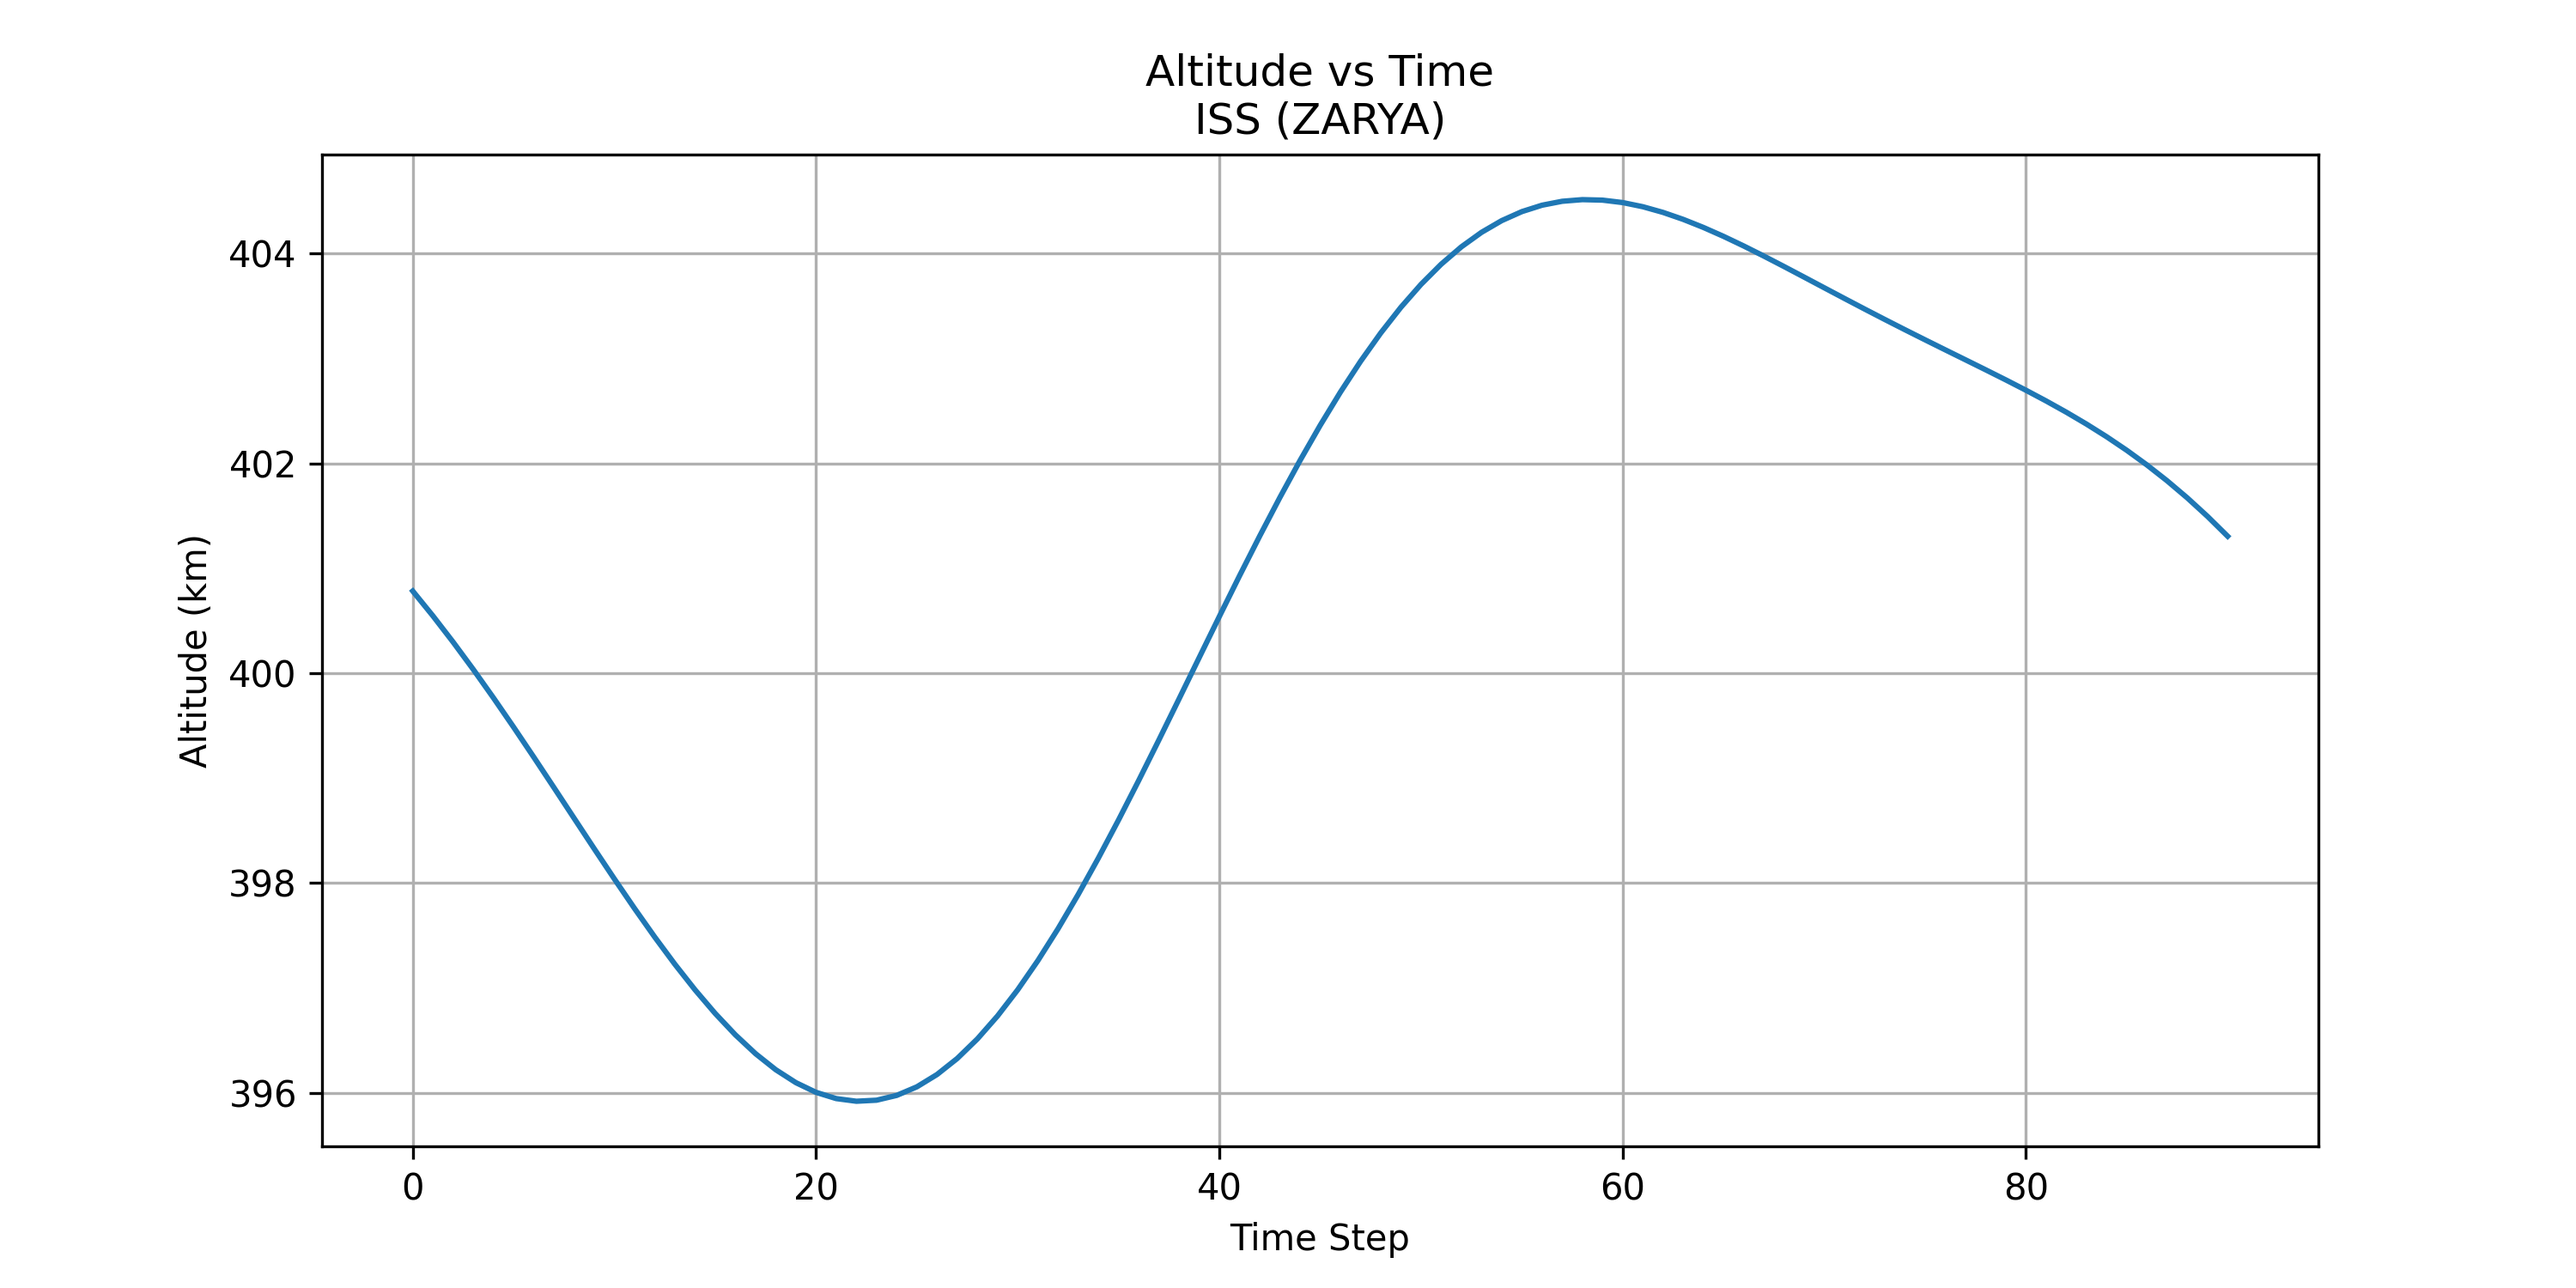
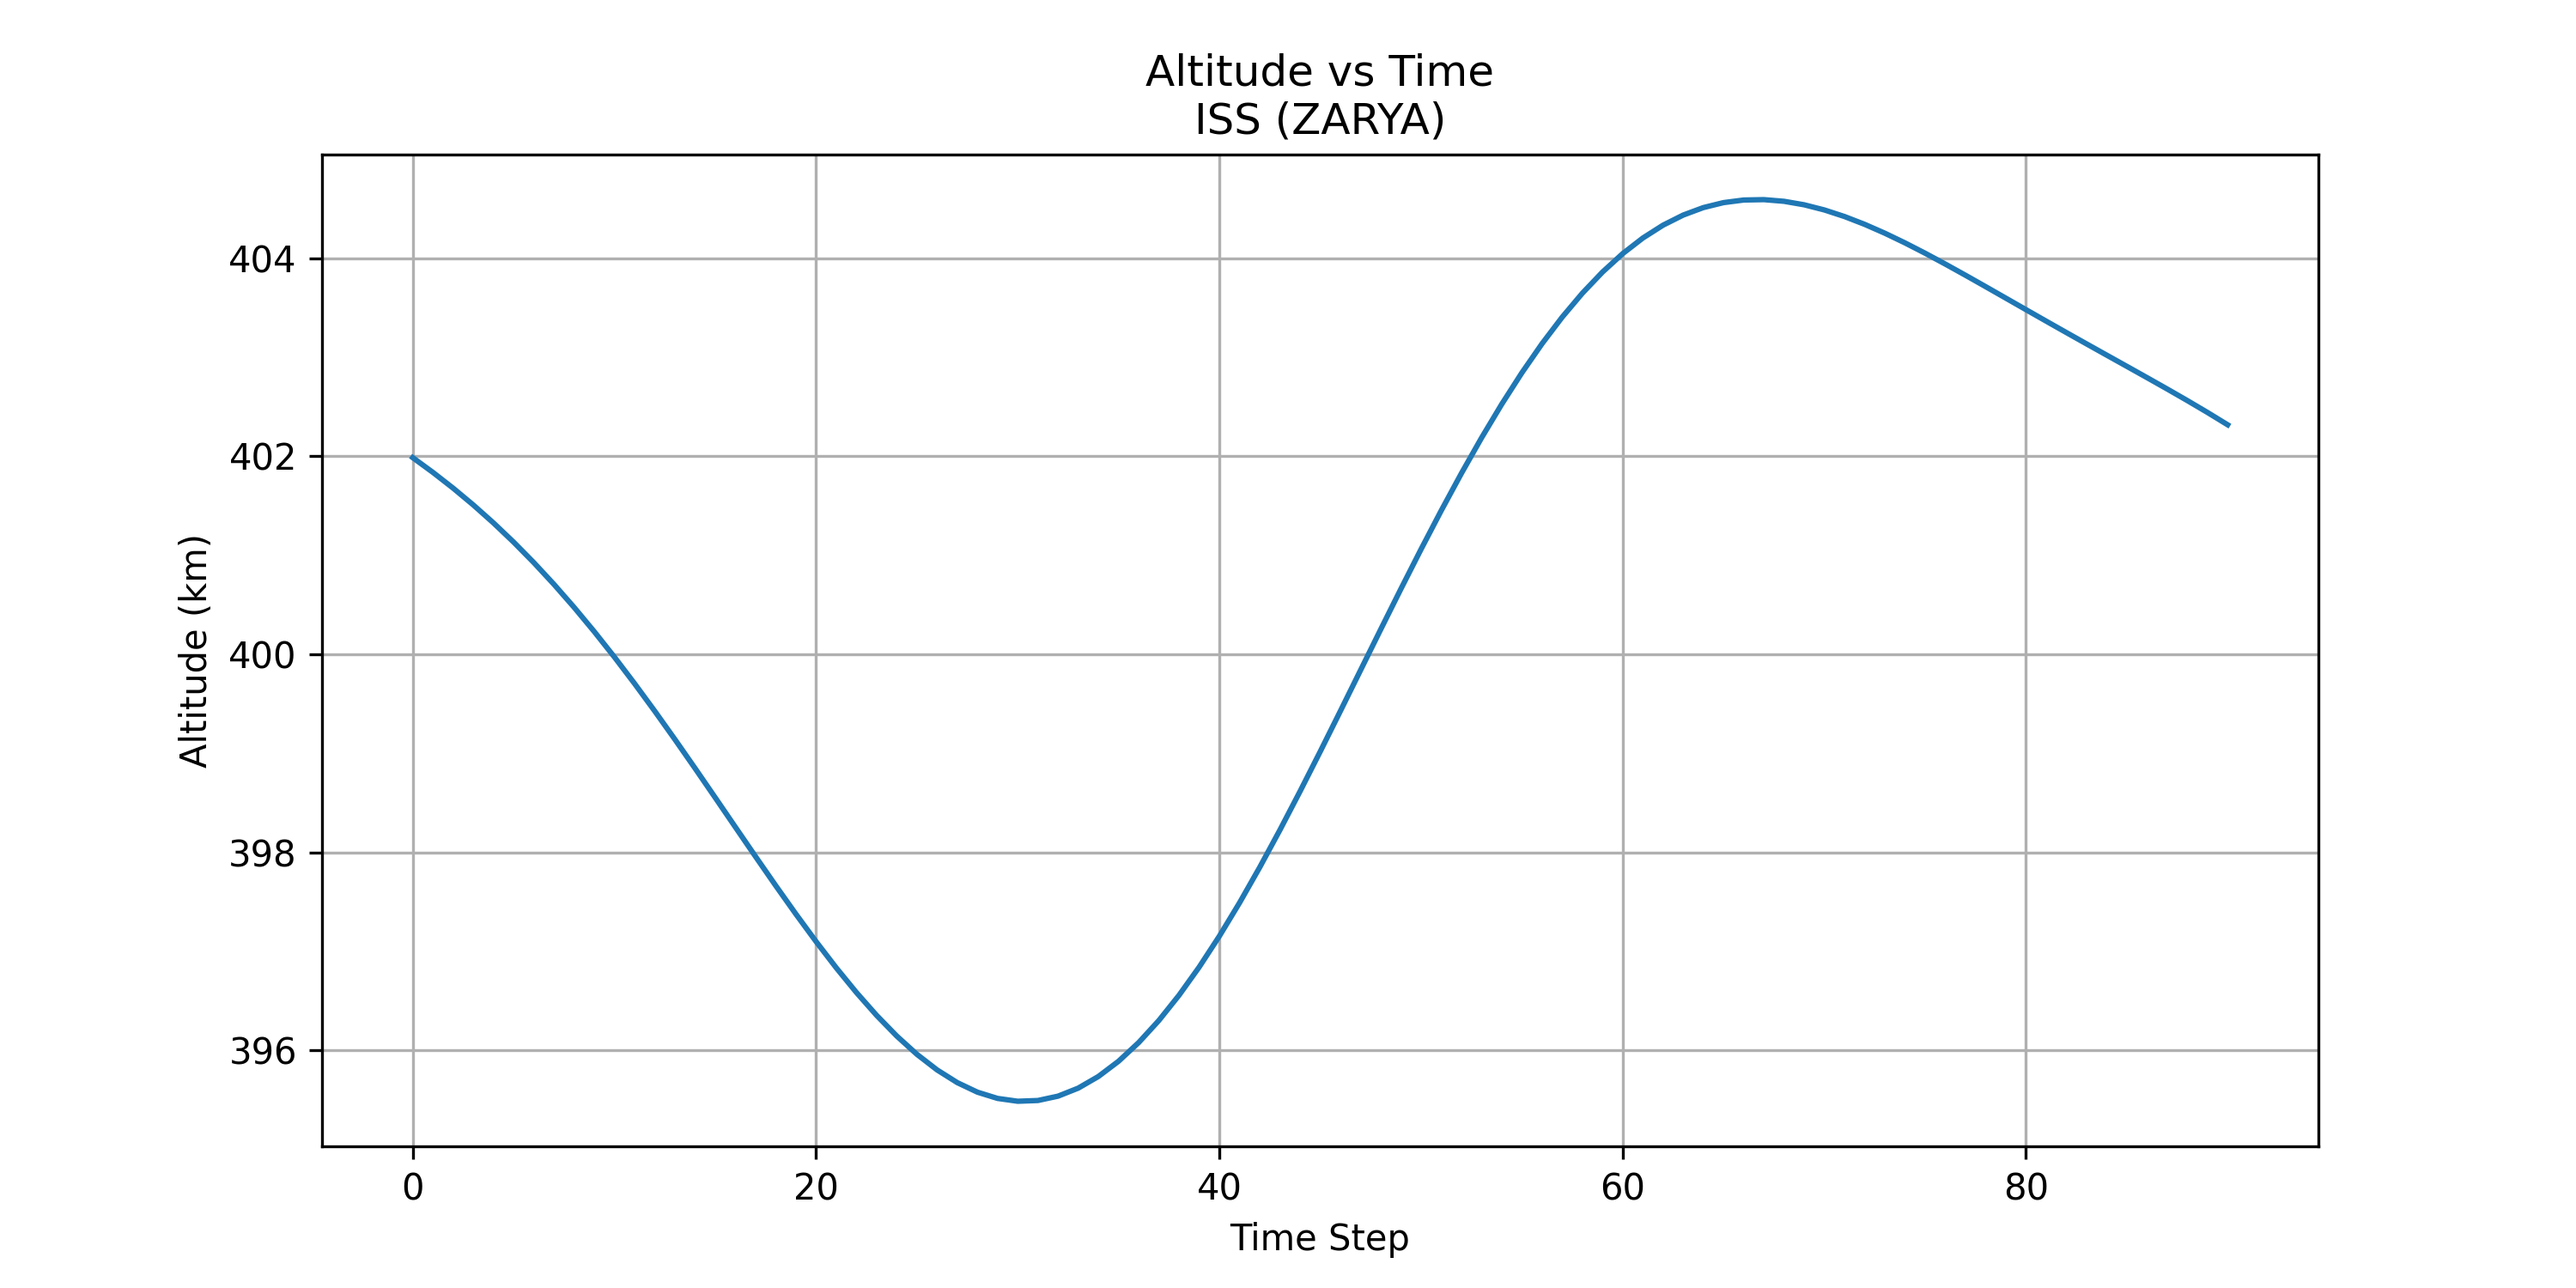
Add TLE loader and first propagation script

diff --git a/src/propagate.py b/src/propagate.py
@@ -1,4 +1,3 @@
-from src.plots import plot_xy, plot_altitude
 from datetime import datetime, timedelta, timezone
 
 import numpy as np
@@ -10,21 +9,44 @@ from src.utils import datetime_to_julian
 
 def propagate_satellite(
     satellite,
+    start_time=None,
     duration_minutes=90,
     step_minutes=1
 ):
     """
-    Propagate one satellite over a period of time.
+    Propagate one satellite over a fixed time interval.
 
-    Returns a dictionary containing all orbit data.
+    Parameters
+    ----------
+    satellite : dict
+        Satellite containing name, line1 and line2.
+
+    start_time : datetime, optional
+        UTC starting time. If omitted, current UTC time is used.
+
+    duration_minutes : int
+        Total propagation duration.
+
+    step_minutes : int
+        Time interval between propagation points.
+
+    Returns
+    -------
+    dict
+        Propagation data including times, positions,
+        velocities and altitudes.
     """
+
+    if start_time is None:
+        start_time = datetime.now(timezone.utc)
+
+    if start_time.tzinfo is None:
+        raise ValueError("start_time must be timezone-aware.")
 
     satrec = Satrec.twoline2rv(
         satellite["line1"],
         satellite["line2"]
     )
-
-    start_time = datetime.now(timezone.utc)
 
     times = []
     positions = []
@@ -33,9 +55,9 @@ def propagate_satellite(
 
     earth_radius = 6378.137
 
-    steps = duration_minutes // step_minutes + 1
+    number_of_steps = duration_minutes // step_minutes + 1
 
-    for step in range(steps):
+    for step in range(number_of_steps):
 
         current_time = start_time + timedelta(
             minutes=step * step_minutes
@@ -46,12 +68,16 @@ def propagate_satellite(
         error, position, velocity = satrec.sgp4(jd, fr)
 
         if error != 0:
-            continue
+            raise RuntimeError(
+                f"SGP4 error code {error} for "
+                f"{satellite['name']}"
+            )
 
         position = np.array(position)
         velocity = np.array(velocity)
 
         radius = np.linalg.norm(position)
+
         altitude = radius - earth_radius
 
         times.append(current_time)
@@ -68,22 +94,56 @@ def propagate_satellite(
     }
 
 
+def propagate_all(
+    satellites,
+    start_time=None,
+    duration_minutes=90,
+    step_minutes=1
+):
+    """
+    Propagate multiple satellites using exactly the same
+    time grid.
+
+    Returns
+    -------
+    dict
+        Satellite name -> propagation result.
+    """
+
+    if start_time is None:
+        start_time = datetime.now(timezone.utc)
+
+    results = {}
+
+    for satellite in satellites:
+
+        results[satellite["name"]] = propagate_satellite(
+            satellite,
+            start_time=start_time,
+            duration_minutes=duration_minutes,
+            step_minutes=step_minutes
+        )
+
+    return results
+
+
 def main():
 
     satellites = load_tles("data/sample_tles.txt")
 
-    satellite = satellites[0]
+    results = propagate_all(satellites)
 
-    result = propagate_satellite(satellite)
+    print("\nPropagation Summary")
+    print("-" * 60)
 
-    print(f"\nSatellite: {result['name']}")
-    print(f"Generated {len(result['times'])} orbit points.")
-    print(f"Average altitude: {result['altitudes'].mean():.2f} km")
+    for name, result in results.items():
 
-    plot_xy(result)
-    plot_altitude(result)
-
-    print("\nOrbit plots created successfully.")
+        print(
+            f"{name:<30}"
+            f"{len(result['times']):>4} points   "
+            f"Average altitude: "
+            f"{result['altitudes'].mean():.2f} km"
+        )
 
 
 if __name__ == "__main__":

diff --git a/src/closest_approach.py b/src/closest_approach.py
@@ -1,27 +1,16 @@
 import numpy as np
 
 
-def distance_between(position1, position2):
+def calculate_distance(position1, position2):
     """
-    Calculate the Euclidean distance between two satellites.
-
-    Parameters
-    ----------
-    position1 : ndarray
-    position2 : ndarray
-
-    Returns
-    -------
-    float
-        Distance in kilometres.
+    Calculate the Euclidean distance between two position vectors.
     """
-
     return np.linalg.norm(position1 - position2)
 
 
-def closest_approach(result1, result2):
+def find_closest_approach(result1, result2):
     """
-    Determine the closest approach between two propagated satellites.
+    Find the closest approach between two propagated satellites.
 
     Parameters
     ----------
@@ -37,11 +26,13 @@ def closest_approach(result1, result2):
     positions2 = result2["positions"]
 
     minimum_distance = float("inf")
-    minimum_index = -1
+    minimum_index = 0
 
-    for i in range(min(len(positions1), len(positions2))):
+    total_steps = min(len(positions1), len(positions2))
 
-        distance = distance_between(
+    for i in range(total_steps):
+
+        distance = calculate_distance(
             positions1[i],
             positions2[i]
         )
@@ -53,13 +44,12 @@ def closest_approach(result1, result2):
     return {
 
         "satellite_1": result1["name"],
-
         "satellite_2": result2["name"],
 
         "minimum_distance": minimum_distance,
 
-        "time":
+        "time": result1["times"][minimum_index],
 
-            result1["times"][minimum_index]
+        "index": minimum_index
 
     }

diff --git a/src/main.py b/src/main.py
@@ -1,0 +1,63 @@
+from datetime import datetime, timezone
+
+from src.tle_loader import load_tles
+from src.propagate import propagate_all
+from src.plots import plot_xy, plot_altitude
+from src.comparison import compare_target
+
+
+def main():
+
+    satellites = load_tles("data/sample_tles.txt")
+
+    if len(satellites) < 2:
+        raise ValueError(
+            "At least two satellites are required."
+        )
+
+    # One common starting time for every satellite
+    start_time = datetime.now(timezone.utc)
+
+    # Propagate every satellite using the same time grid
+    results = propagate_all(
+        satellites,
+        start_time=start_time,
+        duration_minutes=90,
+        step_minutes=1
+    )
+
+    # Target satellite
+    target_name = satellites[0]["name"]
+
+    target_result = results[target_name]
+
+    # Create plots for target satellite
+    plot_xy(target_result)
+    plot_altitude(target_result)
+
+    # Compare target against every other satellite
+    comparisons = compare_target(
+        target_result,
+        results
+    )
+
+    print("\nClosest Approaches")
+    print("-" * 60)
+
+    for comparison in comparisons:
+
+        print(
+            f"{comparison['satellite_2']:<30}"
+            f"{comparison['minimum_distance']:10.2f} km"
+        )
+
+        print(
+            f"{'':30}"
+            f"Time: {comparison['time']}"
+        )
+
+    print("\nAnalysis completed successfully.")
+
+
+if __name__ == "__main__":
+    main()

diff --git a/src/comparison.py b/src/comparison.py
@@ -1,22 +1,45 @@
-from src.propagate import propagate_satellite
+from src.closest_approach import find_closest_approach
 
 
-def propagate_all(satellites):
+def compare_target(
+    target_result,
+    all_results
+):
     """
-    Propagate every satellite in the supplied list.
+    Compare one target satellite against all other
+    propagated satellites.
+
+    Parameters
+    ----------
+    target_result : dict
+        Propagation result for the target satellite.
+
+    all_results : dict
+        Dictionary containing propagation results
+        for all satellites.
 
     Returns
     -------
-    dict
-        {
-            satellite_name: propagation_result
-        }
+    list of dict
+        Closest-approach results sorted by distance.
     """
 
-    results = {}
+    comparisons = []
 
-    for satellite in satellites:
-        result = propagate_satellite(satellite)
-        results[result["name"]] = result
+    for name, result in all_results.items():
 
-    return results
+        if name == target_result["name"]:
+            continue
+
+        closest = find_closest_approach(
+            target_result,
+            result
+        )
+
+        comparisons.append(closest)
+
+    comparisons.sort(
+        key=lambda result: result["minimum_distance"]
+    )
+
+    return comparisons
